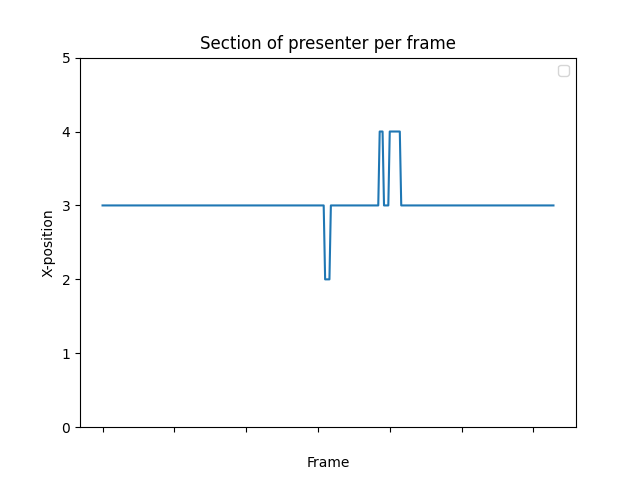
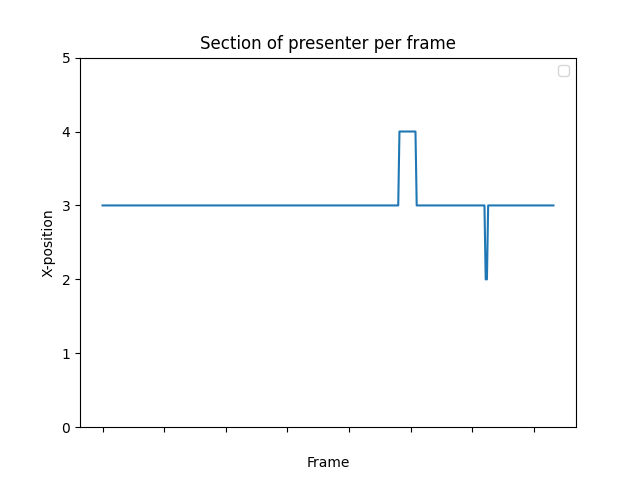
Individualising hand gestures with new method
Implementing the sections method into the application, and setting individual lists for right and left hand gestures

Changed region(s): [[0.5625, 0.25, 0.6562, 0.4375], [0.5, 0.4062, 0.5312, 0.5938], [0.75, 0.4375, 0.7812, 0.5938]]

diff --git a/Templates/upload.html b/Templates/upload.html
@@ -175,7 +175,7 @@
         <div class="loginWindow">
             <h2 style="color:black;">Submit your presentation</h2>
             <form method="post" enctype=multipart/form-data>
-            <!--<label for="fileInput">Script file:</label><input type=file name="scriptFile" class="inputField" id="fileInput"><br>-->
+            <label for="fileInput">Script file:</label><input type=file name="scriptFile" class="inputField" id="fileInput"><br>
             <label for="scriptFileInput">Presentation recording file:</label><input type=file name=file class="inputField" accept="video/*" id="scriptFileInput"><br>
             <input type="submit" value="Submit" id="submitFile" onclick="sayHi()">
             <input type="submit" value="Cancel" id="cancel">

diff --git a/app.py b/app.py
@@ -124,12 +124,7 @@ def upload():
                     height, width = frame.shape[:2]
                     print(f"HEIGHTTTTT: {height}")
                     part_height = height // 9
-
-                    # Draw 7 horizontal lines to split into 8 parts
-                    #for i in range(1, 9):
-                    #    y = i * part_height
-                    #    print(y)
-                     #   cv2.line(frame, (0, y), (width, y), (0, 255, 0), 2)
+                    
                     cv2.line(frame, (0, 406), (width, 406), (0, 255, 0), 2)
                     cv2.line(frame, (0, 563), (width, 563), (0, 255, 0), 2)
                     cv2.line(frame, (0, 138), (width, 138), (0, 255, 0), 2)
@@ -299,60 +294,60 @@ def upload():
         intersection_o_one_positive = section_line.intersection(o_one_positive)
         intersection_o_one_negative = section_line.intersection(o_one_negative)
 
-        o_one_positive_intersections = []
+        o_one_positive_intersections_right = []
         if intersection_o_one_positive.geom_type == 'MultiPoint':
             #plt.plot(*LineString(intersection_left.geoms).xy, 'o')
-            o_one_positive_intersections = sorted(((LineString(intersection_o_one_positive.geoms).xy)[0]).tolist())
+            o_one_positive_intersections_right = sorted(((LineString(intersection_o_one_positive.geoms).xy)[0]).tolist())
         elif intersection_o_one_positive.geom_type == 'Point':
             #plt.plot(*intersection_left.xy, 'o')
-            o_one_positive_intersections = [intersection_o_one_positive.xy[0].tolist()[0]]
+            o_one_positive_intersections_right = [intersection_o_one_positive.xy[0].tolist()[0]]
 
-        o_one_positive_intersections = sorted(o_one_positive_intersections)
+        o_one_positive_intersections_right = sorted(o_one_positive_intersections_right)
 
         #if len(o_one_positive_intersections) % 2 != 0:
         #   o_one_positive_intersections.append(len(rightSections))
 
-        o_one_negative_intersections = []
+        o_one_negative_intersections_right = []
         if intersection_o_one_negative.geom_type == 'MultiPoint':
             #plt.plot(*LineString(intersection_left.geoms).xy, 'o')
-            o_one_negative_intersections = sorted(((LineString(intersection_o_one_negative.geoms).xy)[0]).tolist())
+            o_one_negative_intersections_right = sorted(((LineString(intersection_o_one_negative.geoms).xy)[0]).tolist())
         elif intersection_o_one_negative.geom_type == 'Point':
             #plt.plot(*intersection_left.xy, 'o') 
-            o_one_negative_intersections = [intersection_o_one_negative.xy[0].tolist()[0]]
+            o_one_negative_intersections_right = [intersection_o_one_negative.xy[0].tolist()[0]]
 
-        o_one_negative_intersections = sorted(o_one_negative_intersections)
+        o_one_negative_intersections_right = sorted(o_one_negative_intersections_right)
 
         #if len(o_one_negative_intersections) % 2 != 0:
         #    o_one_negative_intersections.append(len(rightSections))
 
-        for x in range(len(o_one_positive_intersections)):
-            o_one_positive_intersections[x] = o_one_positive_intersections[x]*frame_interval#*10# / 3
-        for x in range(len(o_one_negative_intersections)):
-            o_one_negative_intersections[x] = o_one_negative_intersections[x]*frame_interval#*10# / 3
+        for x in range(len(o_one_positive_intersections_right)):
+            o_one_positive_intersections_right[x] = o_one_positive_intersections_right[x]*frame_interval#*10# / 3
+        for x in range(len(o_one_negative_intersections_right)):
+            o_one_negative_intersections_right[x] = o_one_negative_intersections_right[x]*frame_interval#*10# / 3
 
         if rightSections[0] > 1:
-            o_one_positive_intersections.insert(0,0)
+            o_one_positive_intersections_right.insert(0,0)
 
         if rightSections[0] < 1:
-            o_one_negative_intersections.insert(0,0)
+            o_one_negative_intersections_right.insert(0,0)
 
         if rightSections[-1] > 1:
-            o_one_positive_intersections.append(len(rightSections)*frame_interval)
+            o_one_positive_intersections_right.append(len(rightSections)*frame_interval)
 
         if rightSections[-1] < 1:
-            o_one_negative_intersections.append(len(rightSections)*frame_interval)
+            o_one_negative_intersections_right.append(len(rightSections)*frame_interval)
 
-        for x in range(len(o_one_positive_intersections)):
-            o_one_positive_intersections[x] = o_one_positive_intersections[x] / 30
+        for x in range(len(o_one_positive_intersections_right)):
+            o_one_positive_intersections_right[x] = o_one_positive_intersections_right[x] / 30
 
-        for x in range(len(o_one_negative_intersections)):
-            o_one_negative_intersections[x] = o_one_negative_intersections[x] / 30
+        for x in range(len(o_one_negative_intersections_right)):
+            o_one_negative_intersections_right[x] = o_one_negative_intersections_right[x] / 30
 
         print('For right hand:')
-        print(o_one_positive_intersections)
-        print(o_one_negative_intersections)
+        print(o_one_positive_intersections_right)
+        print(o_one_negative_intersections_right)
 
-        #
+        #-----------------------------------------------------------
 
         xtime = np.arange(len(leftSections))
 
@@ -366,58 +361,58 @@ def upload():
         intersection_o_one_positive = section_line.intersection(o_one_positive)
         intersection_o_one_negative = section_line.intersection(o_one_negative)
 
-        o_one_positive_intersections = []
+        o_one_positive_intersections_left = []
         if intersection_o_one_positive.geom_type == 'MultiPoint':
             #plt.plot(*LineString(intersection_left.geoms).xy, 'o')
-            o_one_positive_intersections = sorted(((LineString(intersection_o_one_positive.geoms).xy)[0]).tolist())
+            o_one_positive_intersections_left = sorted(((LineString(intersection_o_one_positive.geoms).xy)[0]).tolist())
         elif intersection_o_one_positive.geom_type == 'Point':
             #plt.plot(*intersection_left.xy, 'o')
-            o_one_positive_intersections = [intersection_o_one_positive.xy[0].tolist()[0]]
+            o_one_positive_intersections_left = [intersection_o_one_positive.xy[0].tolist()[0]]
 
-        o_one_positive_intersections = sorted(o_one_positive_intersections)
+        o_one_positive_intersections_left = sorted(o_one_positive_intersections_left)
 
         #if len(o_one_positive_intersections) % 2 != 0:
         #   o_one_positive_intersections.append(len(leftSections))
 
-        o_one_negative_intersections = []
+        o_one_negative_intersections_left = []
         if intersection_o_one_negative.geom_type == 'MultiPoint':
             #plt.plot(*LineString(intersection_left.geoms).xy, 'o')
-            o_one_negative_intersections = sorted(((LineString(intersection_o_one_negative.geoms).xy)[0]).tolist())
+            o_one_negative_intersections_left = sorted(((LineString(intersection_o_one_negative.geoms).xy)[0]).tolist())
         elif intersection_o_one_negative.geom_type == 'Point':
             #plt.plot(*intersection_left.xy, 'o') 
-            o_one_negative_intersections = [intersection_o_one_negative.xy[0].tolist()[0]]
+            o_one_negative_intersections_left = [intersection_o_one_negative.xy[0].tolist()[0]]
 
-        o_one_negative_intersections = sorted(o_one_negative_intersections)
+        o_one_negative_intersections_left = sorted(o_one_negative_intersections_left)
 
         #if len(o_one_negative_intersections) % 2 != 0:
         #    o_one_negative_intersections.append(len(leftSections))
 
-        for x in range(len(o_one_positive_intersections)):
-            o_one_positive_intersections[x] = o_one_positive_intersections[x]*frame_interval#*frame_interval# / 3
-        for x in range(len(o_one_negative_intersections)):
-            o_one_negative_intersections[x] = o_one_negative_intersections[x]*frame_interval#*frame_interval# / 3
+        for x in range(len(o_one_positive_intersections_left)):
+            o_one_positive_intersections_left[x] = o_one_positive_intersections_left[x]*frame_interval#*frame_interval# / 3
+        for x in range(len(o_one_negative_intersections_left)):
+            o_one_negative_intersections_left[x] = o_one_negative_intersections_left[x]*frame_interval#*frame_interval# / 3
 
         if leftSections[0] > 1:
-            o_one_positive_intersections.insert(0,0)
+            o_one_positive_intersections_left.insert(0,0)
 
         if leftSections[0] < 1:
-            o_one_negative_intersections.insert(0,0)
+            o_one_negative_intersections_left.insert(0,0)
 
         if leftSections[-1] > 1:
-            o_one_positive_intersections.append(len(leftSections)*frame_interval)
+            o_one_positive_intersections_left.append(len(leftSections)*frame_interval)
 
         if leftSections[-1] < 1:
-            o_one_negative_intersections.append(len(leftSections)*frame_interval)
+            o_one_negative_intersections_left.append(len(leftSections)*frame_interval)
 
-        for x in range(len(o_one_positive_intersections)):
-            o_one_positive_intersections[x] = o_one_positive_intersections[x] / 30
+        for x in range(len(o_one_positive_intersections_left)):
+            o_one_positive_intersections_left[x] = o_one_positive_intersections_left[x] / 30
 
-        for x in range(len(o_one_negative_intersections)):
-            o_one_negative_intersections[x] = o_one_negative_intersections[x] / 30
+        for x in range(len(o_one_negative_intersections_left)):
+            o_one_negative_intersections_left[x] = o_one_negative_intersections_left[x] / 30
 
         print('For left hand:')
-        print(o_one_positive_intersections)
-        print(o_one_negative_intersections)
+        print(o_one_positive_intersections_left)
+        print(o_one_negative_intersections_left)
 
         #----------------------------------------------------------------------------------
 
@@ -496,9 +491,32 @@ def upload():
 
         pdf.image('max_frame.jpg',w=160,h=90)
 
-        pdf.multi_cell(txt='Graph of wrist',w=0,h=multicellHeight)
+        sectionOne = 0
+        sectionTwo = 0
+        sectionThree = 0
+        sectionFour = 0
+        sectionFive = 0
+        for section in sections:
+            if section == 1:
+                sectionOne += 1
+            if section == 2:
+                sectionTwo += 1
+            if section == 3:
+                sectionThree += 1
+            if section == 4:
+                sectionFour += 1
+            if section == 5:
+                sectionFive += 1
+        
+        sectionOne = sectionOne/len(sections)*100
+        sectionTwo = sectionTwo/len(sections)*100
+        sectionThree = sectionThree/len(sections)*100
+        sectionFour = sectionFour/len(sections)*100
+        sectionFive = sectionFive/len(sections)*100
 
-        pdf.image('plot2.png',w=280,h=210)
+        pdf.set_font(family='Arial',style='B',size=p)
+
+        pdf.multi_cell(txt=f'You were in the corners of the screen for {sectionOne+sectionFive}% of the presentation.',w=0,h=multicellHeight)
 
         pdf.multi_cell(txt='Graph of sections',w=0,h=multicellHeight)
 
@@ -516,15 +534,77 @@ def upload():
 
         pdf.set_font(family='Arial',style='B',size=h2)
 
+        pdf.multi_cell(txt='Graph of wrist sections',w=0,h=multicellHeight)
+
+        pdf.image('plot2.png',w=280,h=210)
+
+        left_gestures = []
+
         pdf.multi_cell(txt='Left hand',w=0,h=multicellHeight)
 
         pdf.set_font(family='Arial',style='B',size=p)
 
+        print(f'o_one_positive_intersections_lefto_one_positive_intersections_left:{o_one_positive_intersections_left}')
+
+        for i in range(len(o_one_positive_intersections_left)):
+            if i % 2 == 0:
+                try:
+                    left_gestures.append((o_one_positive_intersections_left[i],o_one_positive_intersections_left[i+1]))
+                except:
+                    pass
+
+        for i in range(len(o_one_negative_intersections_left)):
+            if i % 2 == 0:
+                try:
+                    left_gestures.append((o_one_negative_intersections_left[i],o_one_negative_intersections_left[i+1]))
+                except:
+                    pass
+
+        left_gestures = sorted(left_gestures, key=lambda x: x[0])
+
+        left_gestures_over_limit = []
+
+        for gesture in left_gestures:
+            pdf.multi_cell(txt=f'Hand gesture from {gesture[0]} to {gesture[1]}',w=0,h=multicellHeight)
+            if int(gesture[1]) - int(gesture[0]) >= 5:
+                left_gestures_over_limit.append(gesture)
+
+        for gesture in left_gestures_over_limit:
+            pdf.multi_cell(txt=f'The gesture from {gesture[0]} to {gesture[1]} exceeded the 5-second recommended amount',w=0,h=multicellHeight)
+
         pdf.set_font(family='Arial',style='B',size=h2)
+
+        right_gestures = []
 
         pdf.multi_cell(txt='Right hand',w=0,h=multicellHeight)
 
         pdf.set_font(family='Arial',style='B',size=p)
+
+        for i in range(len(o_one_positive_intersections_right)):
+            if i % 2 == 0:
+                try:
+                    right_gestures.append((o_one_positive_intersections_right[i],o_one_positive_intersections_right[i+1]))
+                except:
+                    pass
+
+        for i in range(len(o_one_negative_intersections_right)):
+            if i % 2 == 0:
+                try:
+                    right_gestures.append((o_one_negative_intersections_right[i],o_one_negative_intersections_right[i+1]))
+                except:
+                    pass
+
+        right_gestures = sorted(right_gestures, key=lambda x: x[0])
+
+        right_gestures_over_limit = []
+
+        for gesture in right_gestures:
+            pdf.multi_cell(txt=f'Hand gesture from {gesture[0]} to {gesture[1]}',w=0,h=multicellHeight)
+            if int(gesture[1]) - int(gesture[0]) >= 5:
+                right_gestures_over_limit.append(gesture)
+
+        for gesture in right_gestures_over_limit:
+            pdf.multi_cell(txt=f'The gesture from {gesture[0]} to {gesture[1]} exceeded the 5-second recommended amount',w=0,h=multicellHeight)
 
         response = make_response(pdf.output(dest='S').encode('latin-1'))
         response.headers.set('Content-Type', 'application/pdf')

diff --git a/scipytest.py b/scipytest.py
@@ -20,8 +20,6 @@ from scipy.signal import find_peaks
 #velocity_moving_average = velocity_moving_average.tolist()
 
 #velocity_moving_average=pandasVelocity.tolist()
-
-#In this example we will use a threshold of 5 and a distance of 1
 x = np.arange(len(positionsRaw))
 y = np.array(positionsRaw)
 
@@ -42,12 +40,8 @@ plt.plot(x,y)
 plt.xlabel('Temperature (degC)')
 plt.ylabel('Solubility of O2 (mg/L)')
 
-#Plot the maximum points on the data plot as green stars
 plt.plot(x_points_max, y_points_max, 'g*')
 
-#Plot the minimum points on the data plot as red dots
 plt.plot(x_points_min, y_points_min, 'ro')
 
-#Since the point at the first max index passes the threshold requirement it is plotted,
-#but the second max index does not pass the threshold requirement so it was NOT plotted.
 plt.show()

diff --git a/README.md b/README.md
@@ -1,0 +1,9 @@
+# Instructions for use
+
+## Which file to run
+Run the app.py file. The rest are just for testing, and are not important; they will be deleted before final submission
+
+## Known bugs
+Make sure that the entire person is visible in all parts of the video. This means that it the video will have to be edited to cut out the part where the user starts and backs up, and also the part where the user finishes and approaches the camera to end. The video should essentially start and end with the whole person visible, otherwise it will crash.
+
+Full bug testing has not yet been done, however for the most part during testing the videos have been analysed fairly successfully
